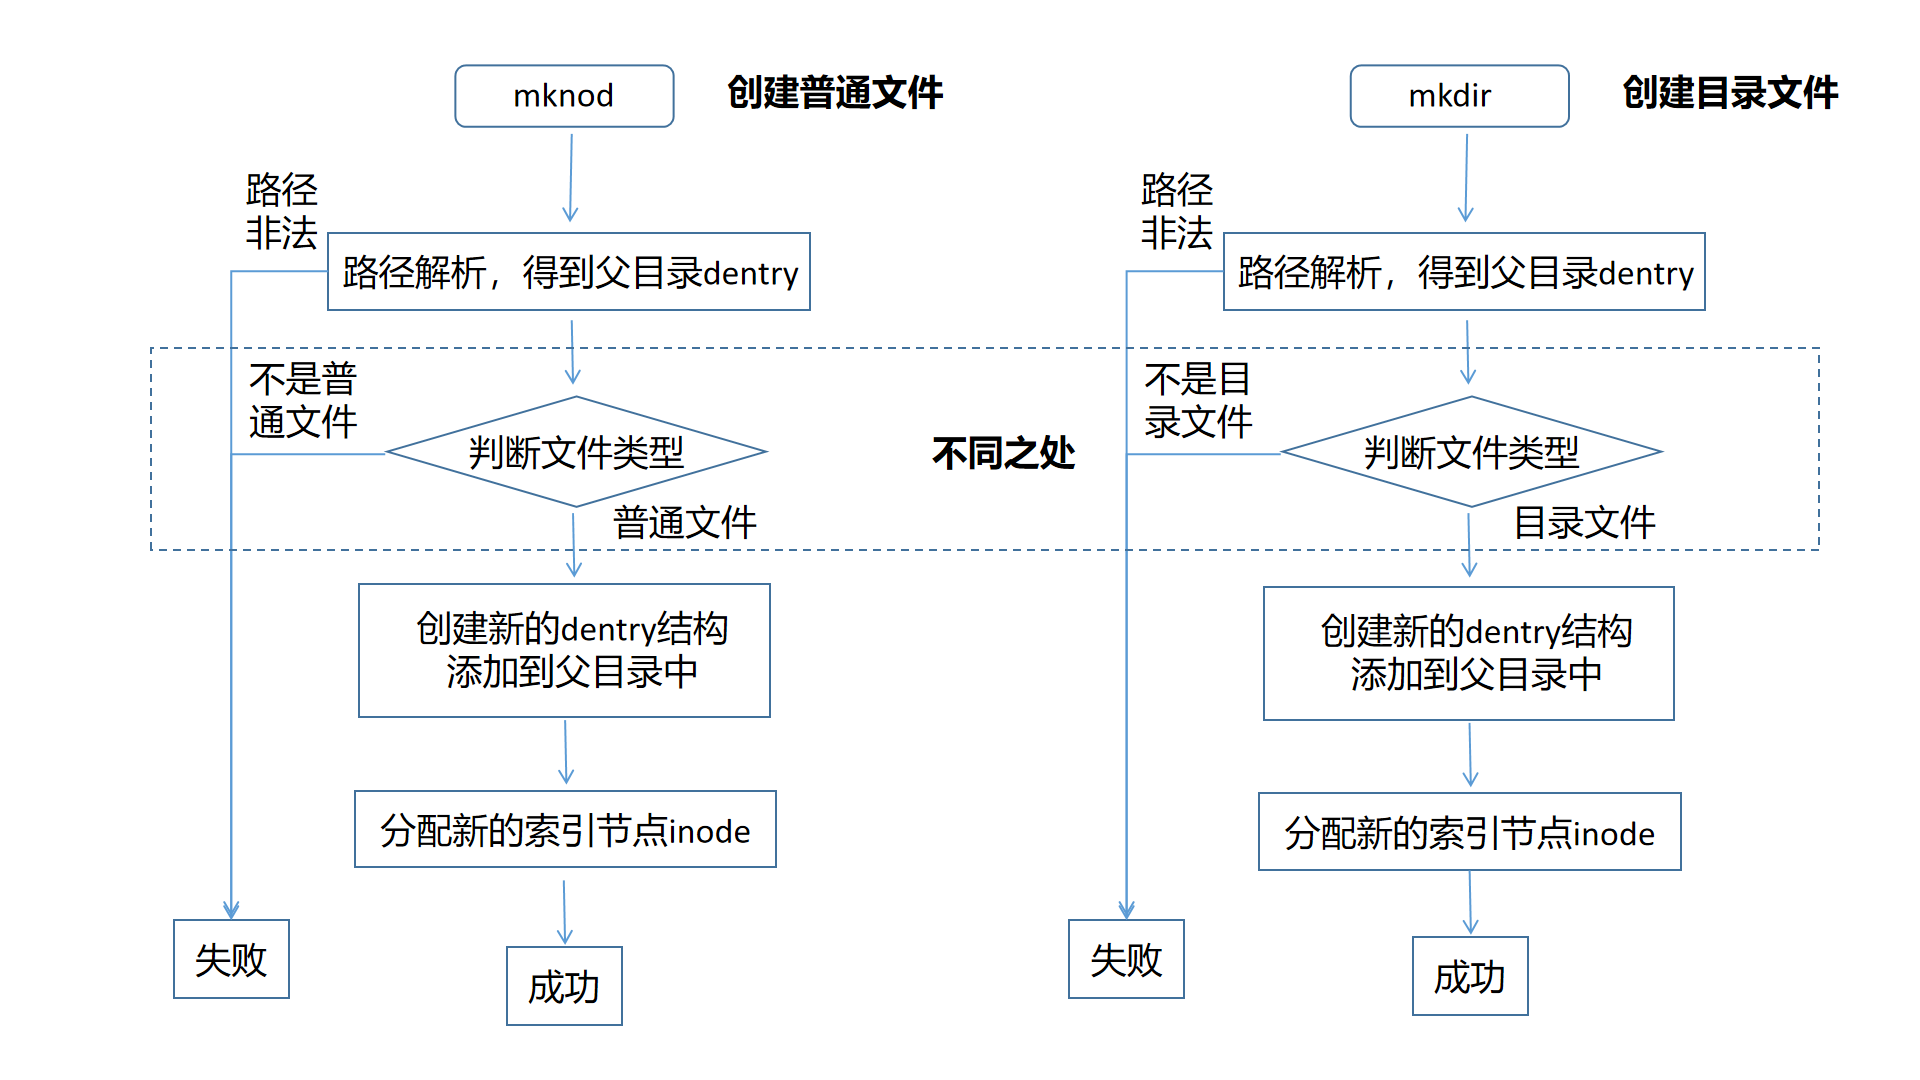
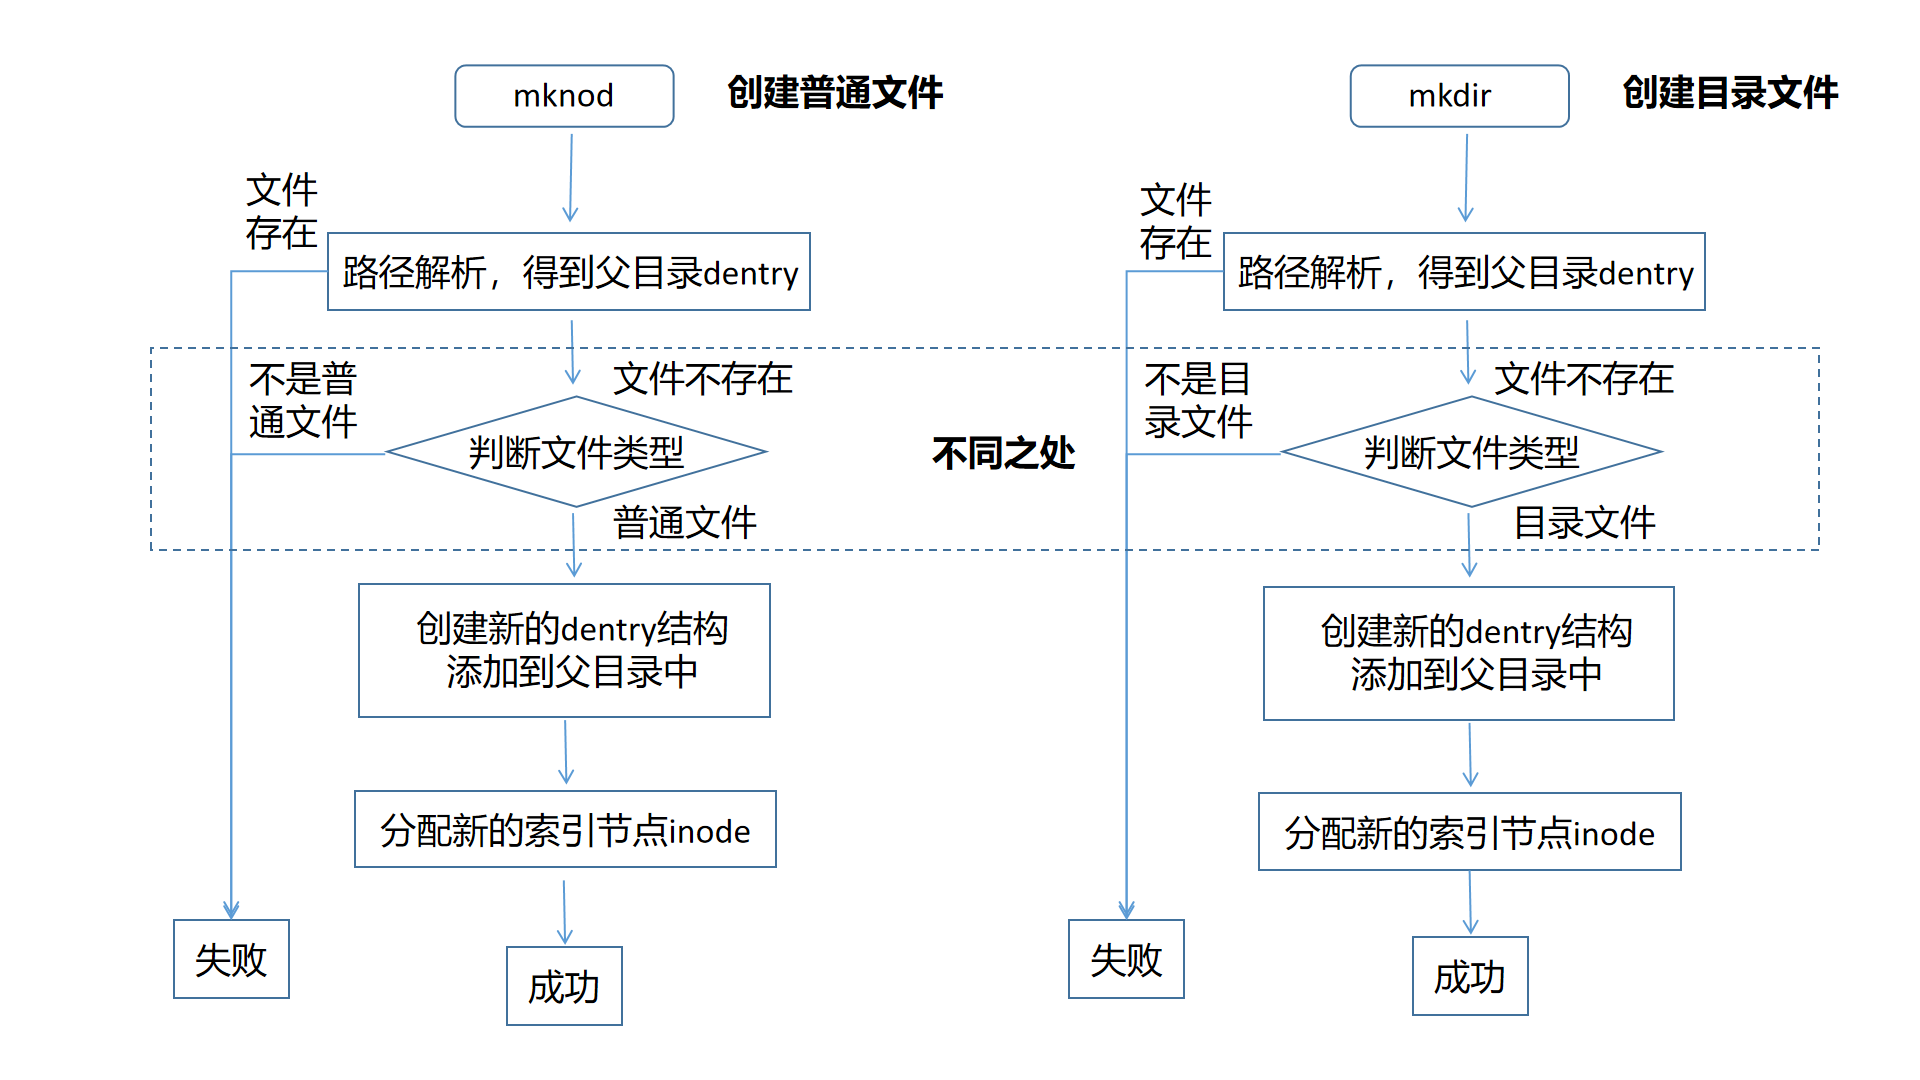
lab5 part3大致更新完 还差测试说明

diff --git a/docs/lab5/part3.md b/docs/lab5/part3.md
@@ -5,9 +5,10 @@
 为了便于同学们过渡到任务二，我们在任务一要求同学们实现一个简单的文件系统小demo。通过这个简单的小demo，帮助大家理解和熟悉：
 
 - 简单的磁盘布局。磁盘逻辑块划分的概念以及本次实验逻辑块大小。
-
 - 简单的磁盘交互。利用本次实验提供的磁盘操作（驱动）接口。
 - 简单的文件系统接口实现。什么是文件系统接口等。
+
+### 1.1 实现内容
 
 这个文件系统小demo的实现要求如下：
 
@@ -19,6 +20,12 @@
 假设`<filename>`为`file.txt`（实际可能不是`file.txt`），文件系统的demo效果将会如下：
 
 ![](./part3.assets/task1效果.png)
+
+### 1.2 实现步骤
+
+
+
+### 1.3 测试
 
 TODO：测试
 
@@ -202,11 +209,13 @@ void* destroy(void* p);
 
 **（1）路径解析，得到父目录的dentry**
 
-如下图所示，所有的路径解析都会从 **根目录** 开始，由超级块维护的根目录`dentry`，读取根目录的`inode`（在读取`inode`的时候会把数据块的内容读取进来，即所有子文件的`dentry_d`），然后依次遍历所有子文件的`dentry`，找到文件名为`home`的`dentry`，然后再读取`home`的inode，重复上面步骤。解析到 **倒数第二层** 的`dentry`，就代表解析成功，返回该目录的`dentry`。为了判断解析到第几层了，可以对路径进行预处理，通过判断路径中`/`的个数来知道总层数`total_level`是多少，然后解析的过程维护一个当前层级`cur_level`。
+首先介绍路径 **解析的逻辑** 。如下图所示，以`/home/test/aaa`为例，假设这个路径存在。所有的路径解析都会从 **根目录** 开始，由超级块维护的根目录`dentry`，读取根目录的`inode`（在读取`inode`的时候会把数据块的内容读取进来，即所有子文件的`dentry_d`），然后依次遍历所有子文件的`dentry`，找到文件名为`home`的`dentry`，然后再读取`home`的inode。重复上面步骤。最后如果`/home/test/aaa`存在，那么在读出`test`目录的`inode`，遍历所有子文件的`dentry`时，会匹配到`aaa`文件的`dentry`。文件存在，返回该文件对应的`dentry`。
 
+![](./part3.assets/lookup找到示意图.png)
 
+在创建普通文件和创建目录文件时，文件还不存在，传入的路径名是无法解析到其对应的`dentry`的。相反，假设解析到存在对应的`dentry`了，则说明文件重名了，应该报错处理。此时文件还不存在，参考上图的解析逻辑，我们只需要返回其父目录的`dentry`即可，供实现两个钩子函数下一步使用，如下图所示。
 
-![](./part3.assets/lookup示意图.png)
+![](./part3.assets/lookup未找到示意图.png)
 
 刚刚提到由`dentry`可以读取到对应的`inode`，因为`dentry`维护有该文件对应的`inode`编号，有了编号，就可以按照磁盘布局设计，从磁盘指定的位置读取出对应的`inode_d`，如下图所示。在读取`inode`的时候可以预先读取对应文件的内容到内存中，方便文件系统的使用。特别的，对于目录文件，读取完其内容后，还应该动态的在文件系统维护好所有子文件的`dentry`。
 
@@ -275,11 +284,75 @@ int mkdir(const char* path, mode_t mode)
 
 ##### 2.2.3.3 显示文件和目录
 
-// TODO
+**（1）获取文件属性**
 
-以前的内容（有待删除）
+在显示一个文件的时候，需要查看文件的属性，如文件大小、文件类型等信息。文件的属性在Linux中通过一个`stat`的结构体来维护。
 
--   根据工具函数，完成`.get_attr`钩子；
--   根据工具函数，完成`.readdir`钩子；
+获取文件属性的函数的核心就是要实现填充好对应的`stat`结构体，并向上层返回。获取文件属性的函数对应`getattr`钩子。大致的流程示意图如下所示：
+
+![](./part3.assets/getattr示意图.png)
+
+**路径解析的逻辑** 在创建文件一小节已经介绍过，得到传入路径对应的`dentry`结构，就可以根据`dentry`及其索引的`inode`结构的字段来填充`stat`结构体的字段。
+
+`stat`结构体通常需要填充如下一些常用字段，同学们需要完成这些字段的填充：
+
+| 结构体字段 | 字段含义                             |
+| ---------- | ------------------------------------ |
+| st_size    | 文件的大小                           |
+| st_mode    | 文件的模式，包括文件的权限、文件类型 |
+| st_nlink   | 文件的连接数，即多少硬链接           |
+| st_uid     | 文件所有者的用户ID                   |
+| st_gid     | 文件所有者的组ID                     |
+| st_blksize | 文件所在文件系统的逻辑块大小         |
+| st_blocks  | 文件所占的块数                       |
+| st_atime   | 文件最近一次访问时间                 |
+| st_mtime   | 文件最近一次修改时间                 |
+
+以下有一些实现中的注意事项：
+
+- 关于`st_nlink`。本次实验不考虑硬链接，约定链接数均为1。值得注意的是，根目录具有特殊性，为保证文件目录树的完整，一般文件系统会约定其链接数为2。
+
+- 关于`st_mode`。本次实验可默认文件权限均为（0777）。在Linux中通过`S_IFREG`来表示普通文件，`S_IFDIR`表示目录文件。如果想表示一个默认权限为0777的普通文件，其`st_mode`应该是0777 | `S_IFDIR`。
+
+- 关于`st_uid`和`st_gid`。可以通过`getuid()`和`getgid()`获取当前用户的用户ID和组ID。
+
+获取文件属性对应的钩子函数是`.getattr`，同学们实现好显示文件属性的函数后，需要将该函数添加到`.getattr`钩子上。
+
+`.getattr`的函数原型如下，实现的显示文件属性函数要和以下声明保持一致：
+
+```c
+int getattr(const char* path, struct stat * stat);
+```
+
+其中，`path`是要读取属性的文件路径;`stat`是要填充返回的文件属性结构体。
+
+**（2）读取目录**
+
+查看一个目录下有哪些文件的时候，需要用到读取目录的钩子函数。
+
+读取目录的函数主要是将 **子文件的文件名** 填充到 **指定的缓冲区** 即可。具体说来，**读取目录的函数** 会传入一个 **子文件的偏移**  `offset`，一个装载 **结果的缓冲区** `buf`，还有一个上层根据自己需求编写的 **自定义填充函数** `filler`。读取目录函数负责的是根据 **子文件偏移**`offset`获取到对应的 **子文件文件名** 。然后 **直接调用** 传入的装填函数`filler`将这个子文件文件名装填到结果缓冲区`buf`。上层的`filler`决定怎么填充这个结果，和文件系统实现无关，`readdir`只需要知道有这么个装填函数`filler`，直接调用即可。示意图如下：
+
+![](./part3.assets/readdir示意图.png)
+
+其中，调用`filler`的时候需要的`filler`钩子函数的原型如下：
+
+```c
+int filler(void *buf, const char *name, const struct stat *stbuf, off_t off);
+```
+
+`buf`是要装填结果`name`的缓冲区;`name`是获取到的子文件的文件名;`stbuf`无需关注，设置为`NULL`即可;`off`是 **下一个子文件** 的偏移（用于下次调用readdir的`offset`）。
+
+读取目录对应的钩子函数是`.readdir`，同学们实现好读取目录的函数后，需要将该函数添加到`.readdir`钩子上。
+
+`.readdir`的函数原型如下，实现的读取目录函数要和以下声明保持一致：
+
+```c
+int readdir(const char * path, void * buf, fuse_fill_dir_t filler, off_t offset, struct fuse_file_info * fi);
+```
+
+其中，`path`是要读取的目录的路径;`buf`是传入的装填返回结果的缓冲区;`filler`是传入的上层自定义的装填函数;`offset`是本次要要开始读取的子文件的偏移，`fi`无需关注。
+
+### 2.3 测试
+
 -   手工测试`touch`、`ls`、 `mkdir`、`fusermount -u`等命令的正确性；
 -   通过`./tests/test.sh`脚本的基本功能测试。
